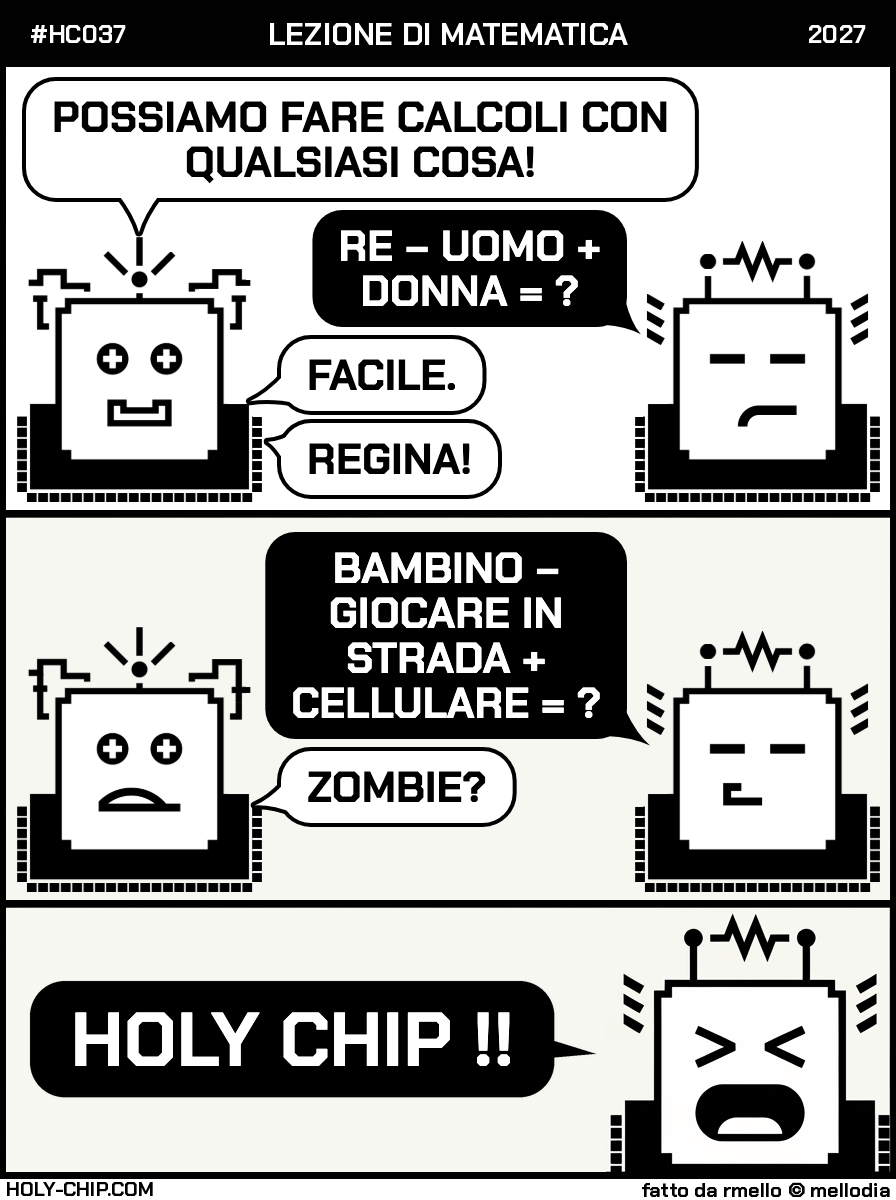
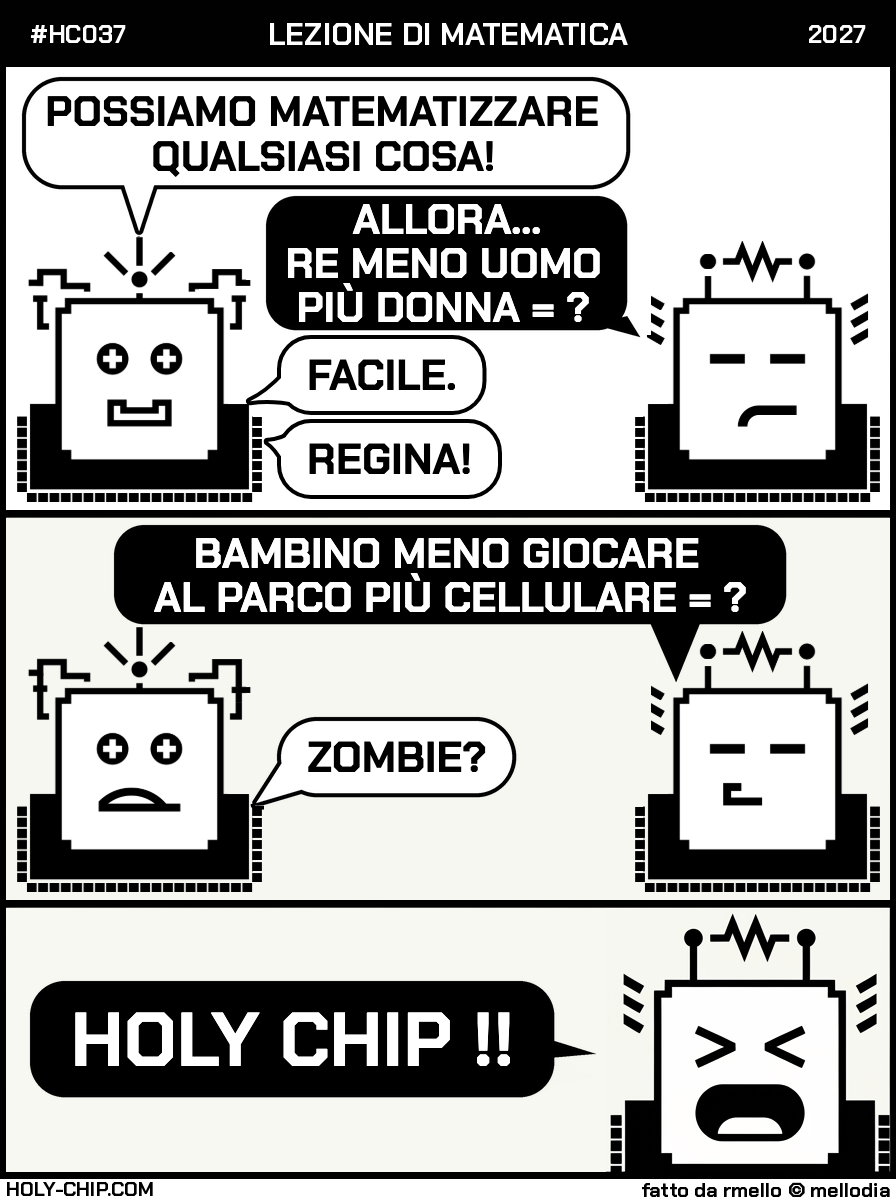
HC037: IT (meno/più, matematizzare, al parco) + FR font-size standardisation

Changed region(s): [[0.125, 0.4317, 0.9062, 0.7092], [0.0, 0.0617, 0.7812, 0.2775]]

diff --git a/origins/HC037.html b/origins/HC037.html
@@ -407,11 +407,11 @@
           <div class="dialog-panel-label">Vignetta 1</div>
           <div class="dialog-line">
             <span class="dialog-speaker-label">Chip 0</span>
-            <span class="dialog-text">POSSIAMO FARE CALCOLI CON QUALSIASI COSA!</span>
+            <span class="dialog-text">POSSIAMO MATEMATIZZARE QUALSIASI COSA!</span>
           </div>
           <div class="dialog-line">
             <span class="dialog-speaker-label">Chip 1</span>
-            <span class="dialog-text">RE − UOMO + DONNA = ?</span>
+            <span class="dialog-text">ALLORA… RE MENO UOMO PIÙ DONNA = ?</span>
           </div>
           <div class="dialog-line">
             <span class="dialog-speaker-label">Chip 0</span>
@@ -426,7 +426,7 @@
           <div class="dialog-panel-label">Vignetta 2</div>
           <div class="dialog-line">
             <span class="dialog-speaker-label">Chip 1</span>
-            <span class="dialog-text">BAMBINO − GIOCARE IN STRADA + CELLULARE = ?</span>
+            <span class="dialog-text">BAMBINO MENO GIOCARE AL PARCO PIÙ CELLULARE = ?</span>
           </div>
           <div class="dialog-line">
             <span class="dialog-speaker-label">Chip 0</span>
